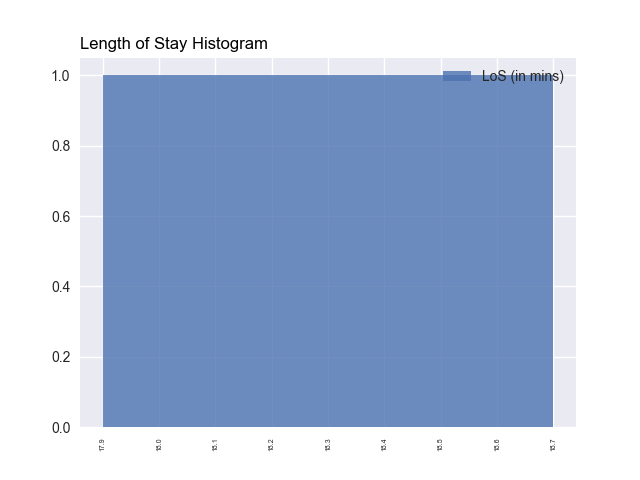
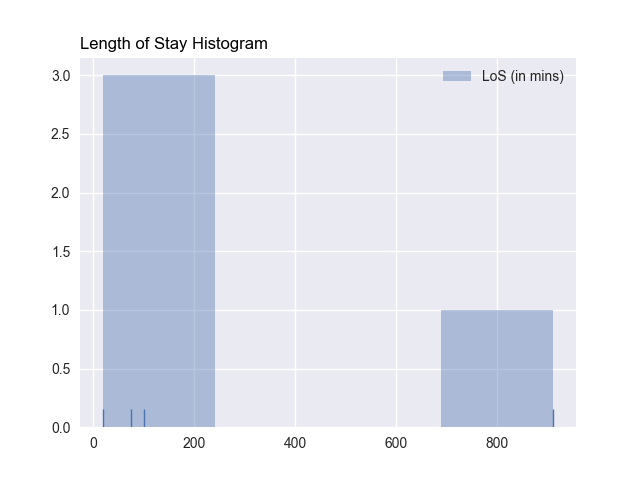
Minor fixes on LoS

diff --git a/Projects/p2/src/extractors/LoSHistogram.py b/Projects/p2/src/extractors/LoSHistogram.py
@@ -1,5 +1,6 @@
 from AbstractExtractor import AbstractExtractor
 import apache_beam as beam
+import seaborn as sns
 
 from dateutil.parser import parse
 import time
@@ -26,7 +27,7 @@ class LoSHistogram(AbstractExtractor):
         self.process = Process()
 
     def processor(self, p_collection):
-        return (
+        return self.collection_to_list(
             p_collection |
             beam.FlatMap(lambda el: [(el[0], el[3])]) |
             beam.GroupByKey() |
@@ -36,12 +37,13 @@ class LoSHistogram(AbstractExtractor):
     def output_data(self, haids, output_folder):
         self.resetPlotting()
 
-        plt.hist(haids, alpha=0.8, bins='rice', label='LoS (in mins)', rwidth=0.8)
-        plt.legend(loc='upper right')
-        plt.xticks(rotation=90, fontsize=5)
-
+        
         plt.title('Length of Stay Histogram', loc='left',
                   fontsize=12, fontweight=0, color='black')
+
+        sns.distplot(haids, hist=True, bins='rice',
+                     label='LoS (in mins)', kde=False, rug=True)
+        plt.legend(loc='upper right')
 
         plt.savefig('%s/%s.png' % (output_folder, self.name))
 
